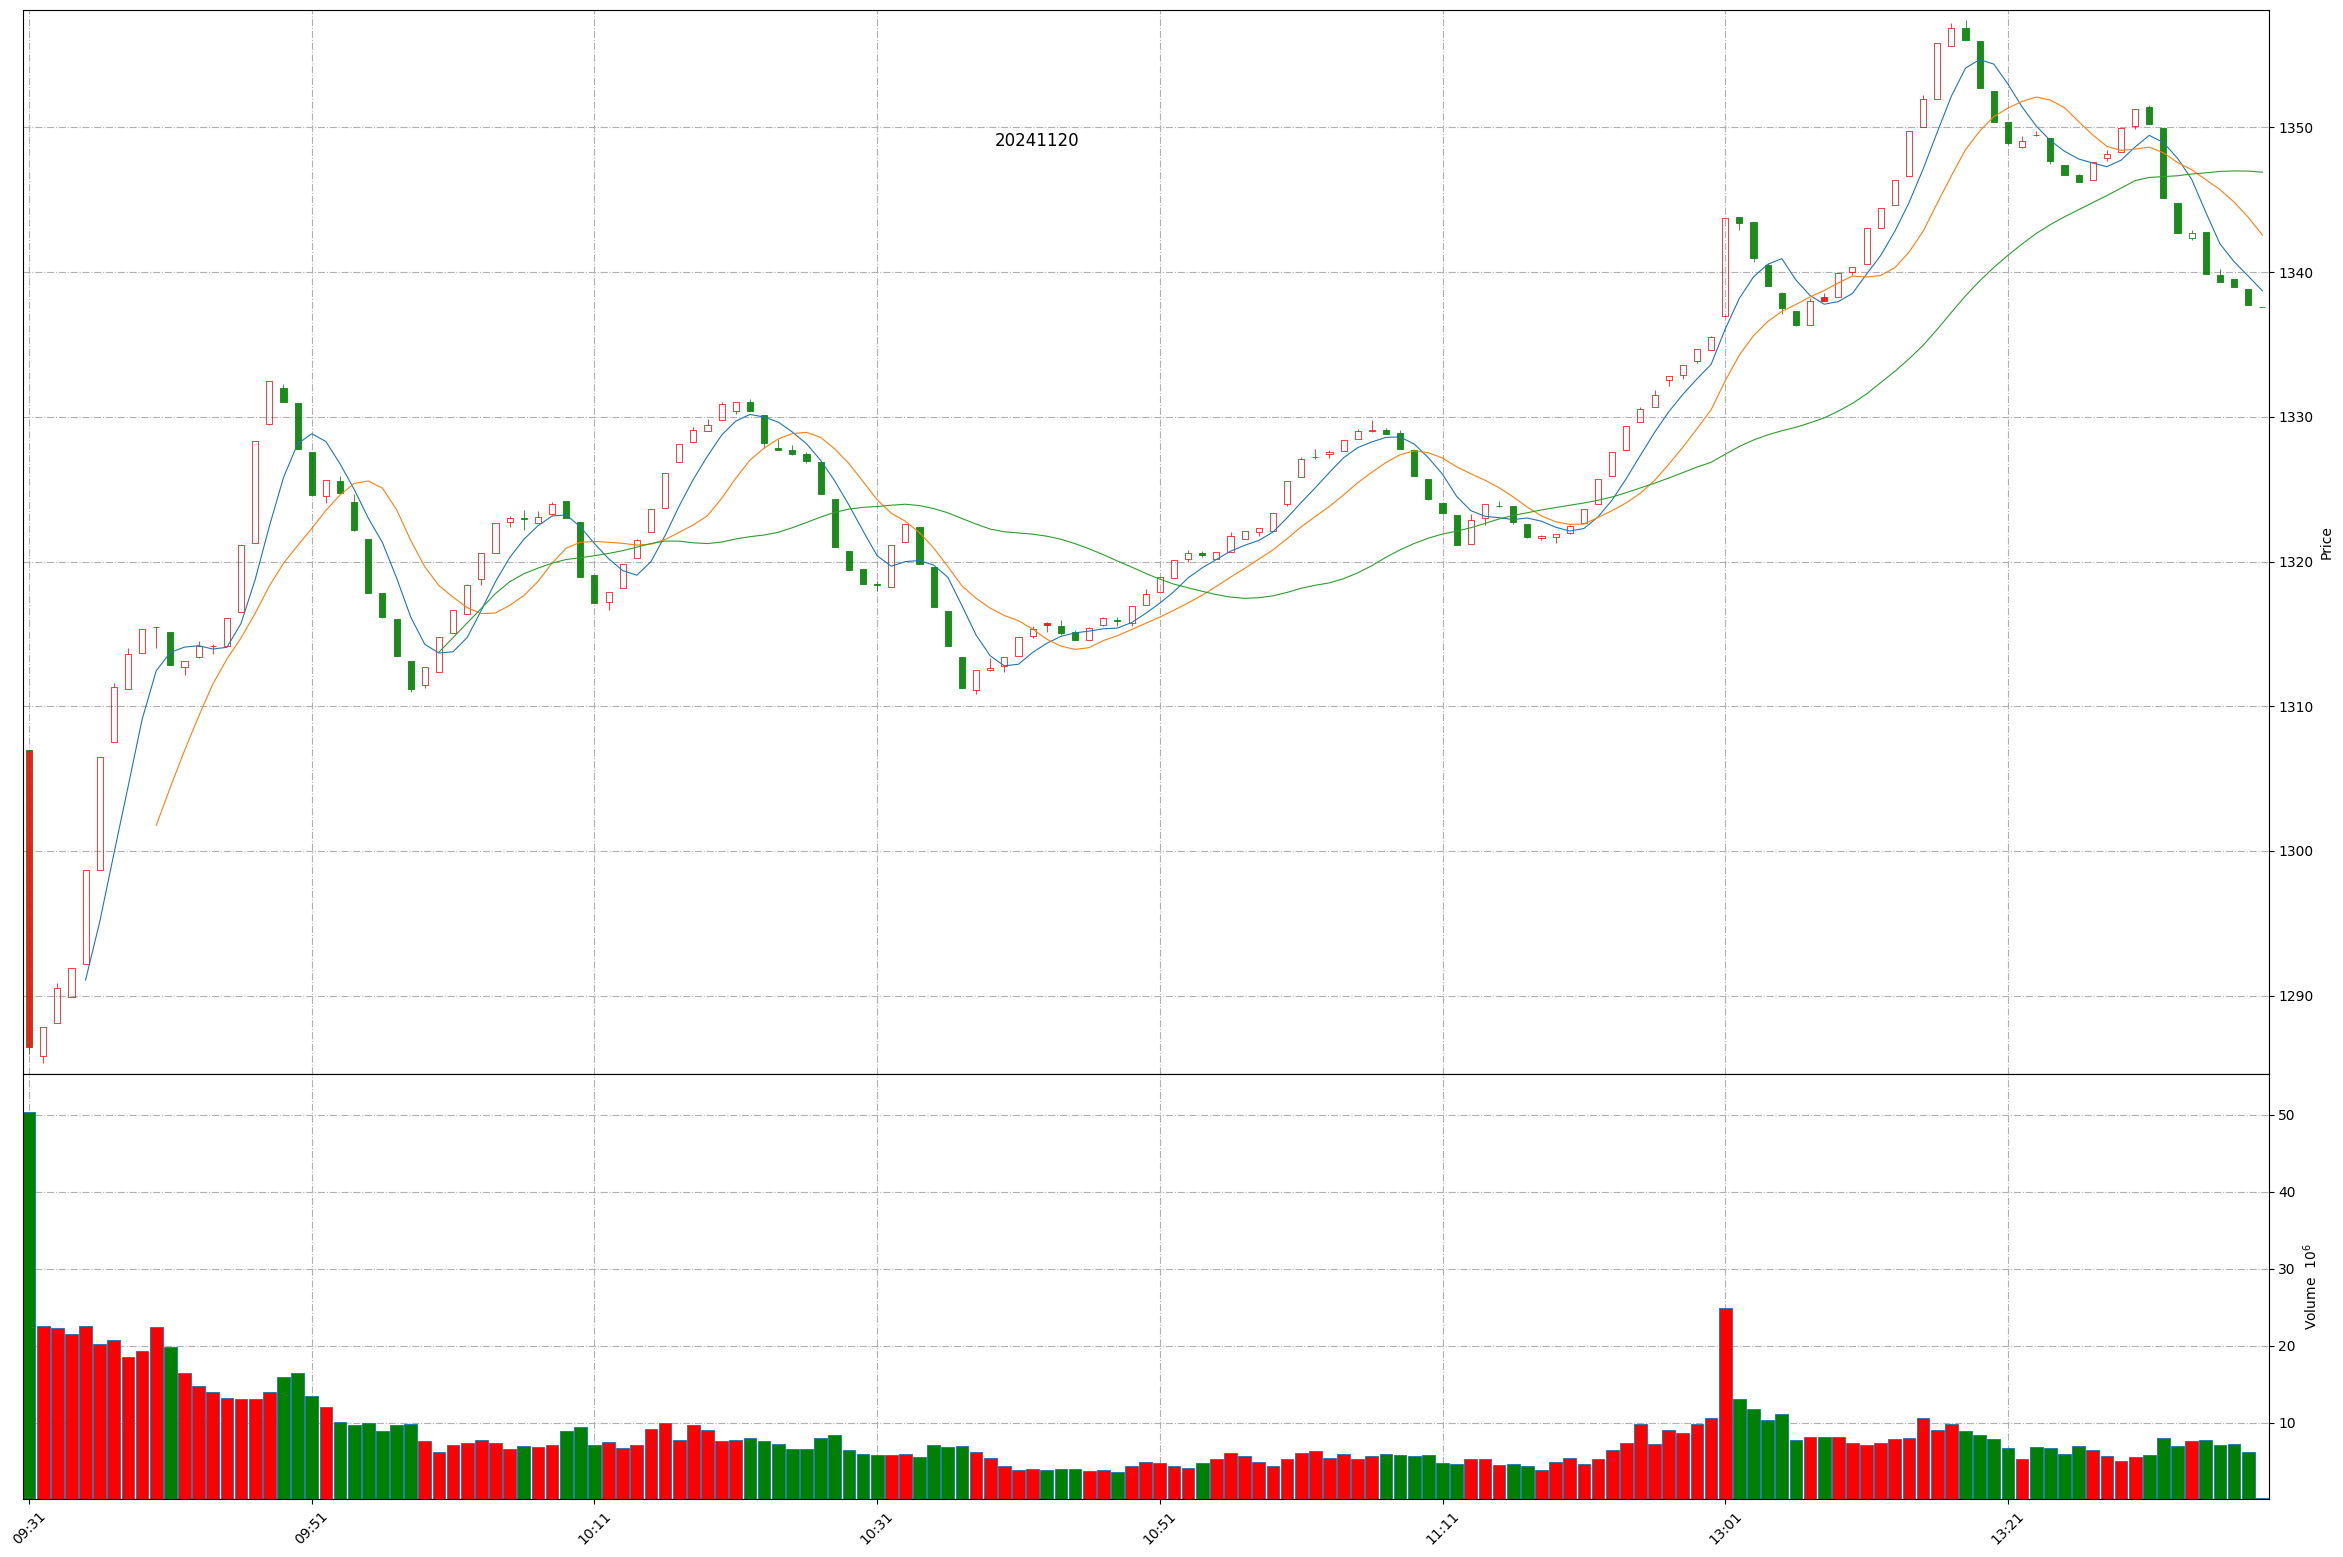
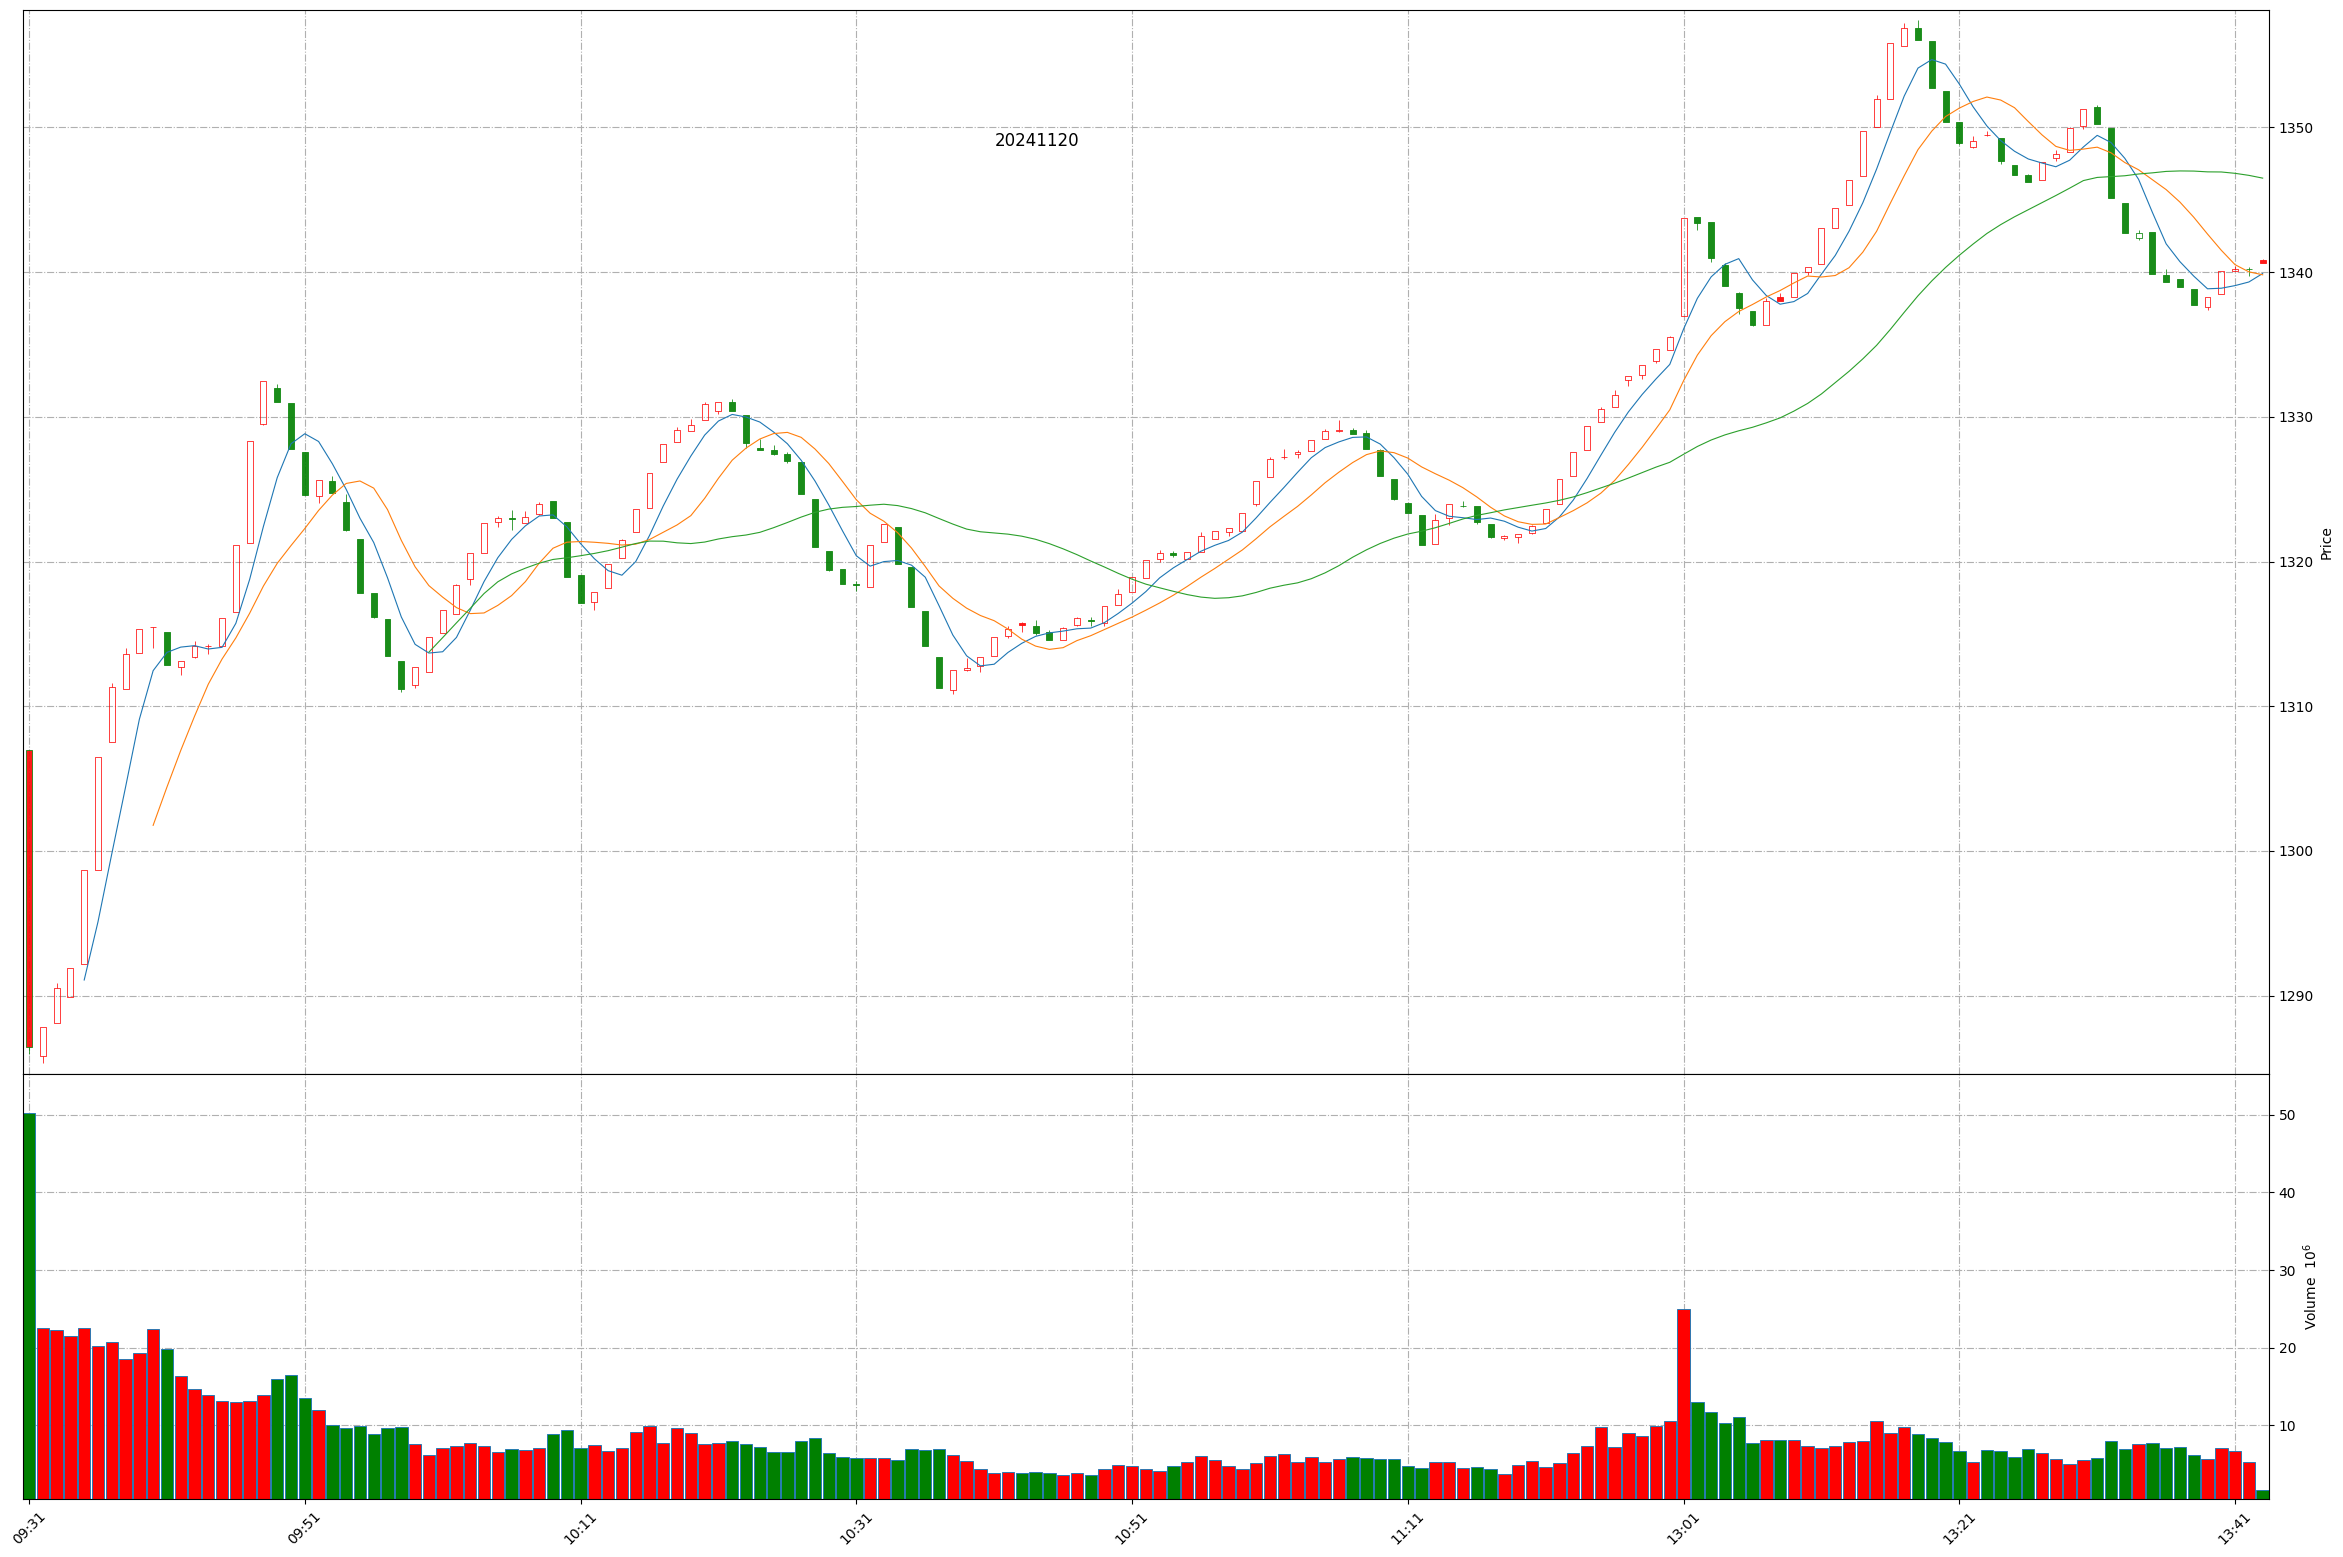
Github action update at 2024-11-20 13:42:28.

diff --git a/README.md b/README.md
@@ -1,11 +1,11 @@
 
 # Daily-A-share-market-quotes 每日 A 股指数（5min 更新）- 20241120
 
-### 上证指数 20241120 13:38
+### 上证指数 20241120 13:42
 ![](./fig/2024/11/20241120-sh000001.png)
 
-### 深证成指 20241120 13:38
+### 深证成指 20241120 13:42
 ![](./fig/2024/11/20241120-sz399001.png)
 
-### 北证50 20241120 13:38
+### 北证50 20241120 13:42
 ![](./fig/2024/11/20241120-bj899050.png)
